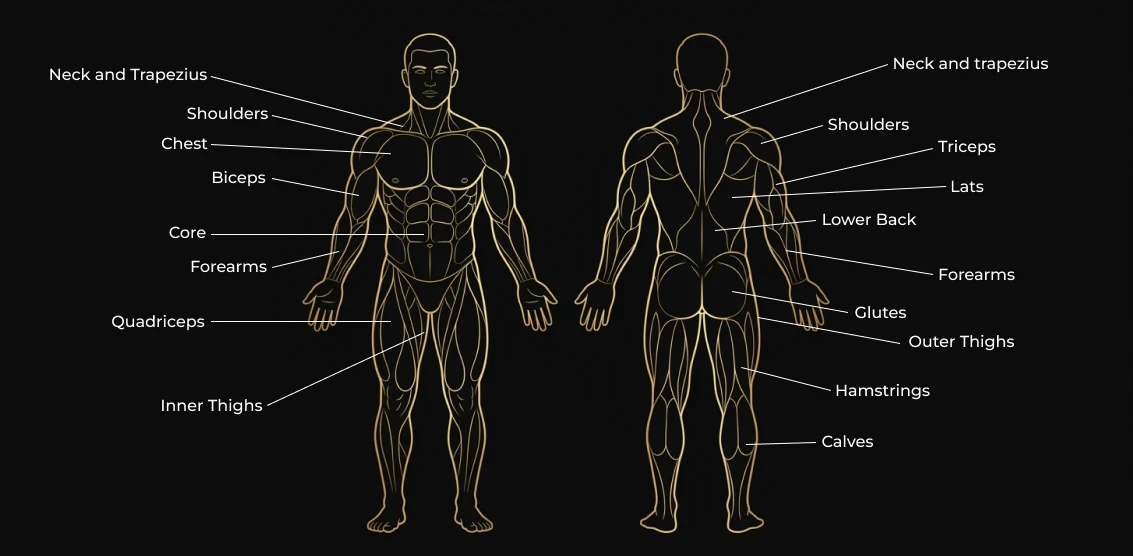
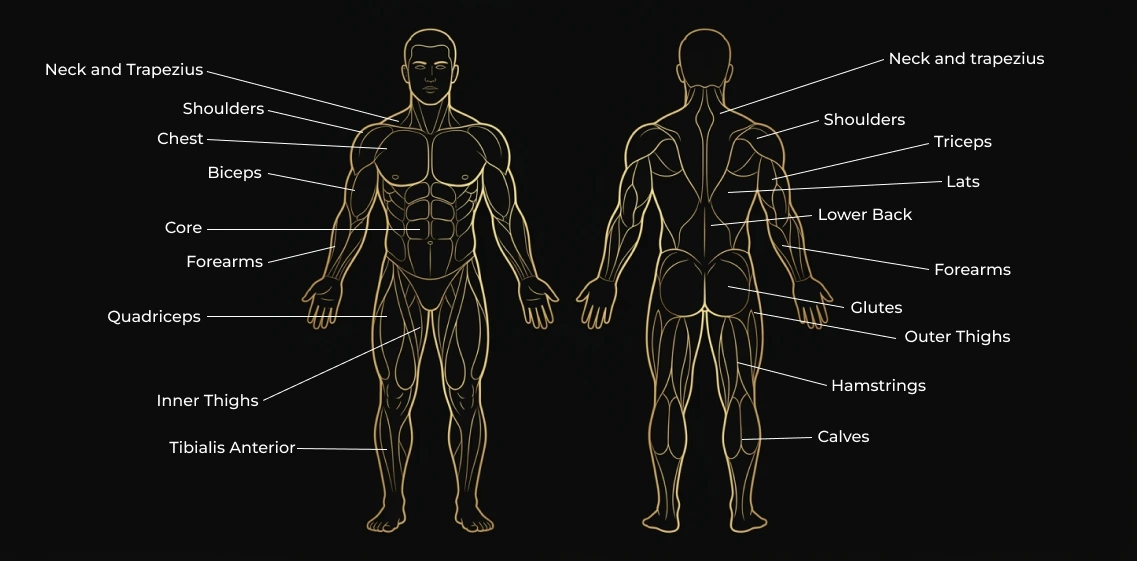
Anatomy map: new labelled art with a Tibialis Anterior label (male)
Hani re-exported the art; the male front figure now carries a Tibialis
Anterior label, wired to the new tibialis hub. Zone rects and figure
boxes are now GENERATED by scripts/anatomy-zones.mjs (white-text
detection, dash-aware; gutter = empty column run nearest image centre,
since the figures' arms interleave and the widest run splits an arm off
its figure). PNG originals live in art/, the site ships q92 webp.
Female art is unchanged and still has no tibialis label.

diff --git a/src/data/anatomyRegions.js b/src/data/anatomyRegions.js
@@ -10,9 +10,10 @@
 // Coordinates are normalized (0..1) WITHIN that view's box, so they stay aligned
 // at any render size.
 //
-// The rects below were generated by detecting the white label text in the art
-// (near-white mask -> connected components -> group glyphs into lines), padded,
-// then de-overlapped. Regenerate the same way if the art changes; `?anatomy-debug`
+// The rects below are GENERATED — run `node scripts/anatomy-zones.mjs
+// public/images/anatomy-male.webp male` (and female) after any art change and
+// paste the output here. The script declares the expected label list per view
+// and refuses to emit if the art's labels don't match it. `?anatomy-debug`
 // on /exercises logs click coordinates in the image's pixel space for nudging.
 import { ENGINE_MUSCLE_TO_SLUG, SUBCATEGORIES } from './muscleInfo'
 
@@ -22,17 +23,17 @@ import { ENGINE_MUSCLE_TO_SLUG, SUBCATEGORIES } from './muscleInfo'
 export const ANATOMY_SOURCES = {
   male: {
     src: 'images/anatomy-male.webp',
-    w: 1133,
-    h: 556,
-    front: { x: 38, y: 21, w: 531, h: 523 },
-    back: { x: 562, y: 21, w: 497, h: 523 },
+    w: 1137,
+    h: 561,
+    front: { x: 38, y: 20, w: 530, h: 521 },
+    back: { x: 568, y: 20, w: 484, h: 521 },
   },
   female: {
     src: 'images/anatomy-female.webp',
     w: 1317,
     h: 658,
-    front: { x: 82, y: 23, w: 577, h: 609 },
-    back: { x: 660, y: 23, w: 522, h: 609 },
+    front: { x: 86, y: 27, w: 570, h: 602 },
+    back: { x: 664, y: 27, w: 515, h: 601 },
   },
 }
 
@@ -64,50 +65,51 @@ export function writeAnatomySex(id) {
 export const ANATOMY_ZONES = {
   female: {
     front: [
-      { slug: 'traps', label: 'Neck and Trapezius', rect: [0.0069, 0.0772, 0.3414, 0.0558] },
-      { slug: 'shoulders', label: 'Shoulders', rect: [0.1854, 0.1856, 0.1872, 0.0493] },
-      { slug: 'chest', label: 'Chest', rect: [0.2756, 0.2693, 0.1161, 0.0509] },
-      { slug: 'biceps', label: 'Biceps', rect: [0.2374, 0.3662, 0.13, 0.0542] },
-      { slug: 'forearms', label: 'Forearms', rect: [0.0607, 0.4762, 0.1768, 0.0476] },
-      { slug: 'core', label: 'Core', rect: [0.2548, 0.5517, 0.0971, 0.0493] },
-      { slug: 'adductors', label: 'Inner Thighs', rect: [0.0347, 0.6897, 0.227, 0.0558] },
-      { slug: 'quads', label: 'Quadriceps', rect: [0.1369, 0.8112, 0.2097, 0.0558] },
+      { slug: 'traps', label: 'Neck and Trapezius', rect: [0.0018, 0.0781, 0.3439, 0.0449] },
+      { slug: 'shoulders', label: 'Shoulders', rect: [0.1825, 0.1877, 0.1877, 0.0382] },
+      { slug: 'chest', label: 'Chest', rect: [0.2737, 0.2724, 0.1158, 0.0399] },
+      { slug: 'biceps', label: 'Biceps', rect: [0.2351, 0.3704, 0.1298, 0.0432] },
+      { slug: 'forearms', label: 'Forearms', rect: [0.0561, 0.4817, 0.1772, 0.0365] },
+      { slug: 'core', label: 'Core', rect: [0.2526, 0.5581, 0.0965, 0.0382] },
+      { slug: 'adductors', label: 'Inner Thighs', rect: [0.0404, 0.6977, 0.2175, 0.0449] },
+      { slug: 'quads', label: 'Quadriceps', rect: [0.1316, 0.8206, 0.214, 0.0449] },
     ],
     back: [
-      { slug: 'traps', label: 'Neck and Trapezius', rect: [0.6015, 0.0296, 0.3716, 0.0558] },
-      { slug: 'shoulders', label: 'Shoulders', rect: [0.7241, 0.1346, 0.2069, 0.0509] },
-      { slug: 'triceps', label: 'Triceps', rect: [0.7567, 0.2496, 0.1322, 0.0493] },
-      { slug: 'lats', label: 'Lats', rect: [0.7567, 0.33, 0.0977, 0.0493] },
-      { slug: 'spinal-erectors', label: 'Lower Back', rect: [0.6782, 0.4187, 0.2337, 0.0493] },
-      { slug: 'forearms', label: 'Forearms', rect: [0.7356, 0.5337, 0.1954, 0.0476] },
-      { slug: 'glutes', label: 'Glutes', rect: [0.7261, 0.6125, 0.1418, 0.0493] },
-      { slug: 'abductors', label: 'Outer Thighs', rect: [0.728, 0.6864, 0.2625, 0.0558] },
-      { slug: 'hamstrings', label: 'Hamstrings', rect: [0.7165, 0.7931, 0.2356, 0.0558] },
-      { slug: 'calves', label: 'Calves', rect: [0.6973, 0.8851, 0.1418, 0.0493] },
+      { slug: 'traps', label: 'Neck and Trapezius', rect: [0.6039, 0.03, 0.3748, 0.0449] },
+      { slug: 'shoulders', label: 'Shoulders', rect: [0.7282, 0.1364, 0.2097, 0.0399] },
+      { slug: 'triceps', label: 'Triceps', rect: [0.7379, 0.2463, 0.1553, 0.0449] },
+      { slug: 'lats', label: 'Lats', rect: [0.7612, 0.3344, 0.0971, 0.0383] },
+      { slug: 'spinal-erectors', label: 'Lower Back', rect: [0.6816, 0.4243, 0.235, 0.0399] },
+      { slug: 'forearms', label: 'Forearms', rect: [0.7398, 0.5408, 0.1961, 0.0366] },
+      { slug: 'glutes', label: 'Glutes', rect: [0.7301, 0.6206, 0.1417, 0.0383] },
+      { slug: 'abductors', label: 'Outer Thighs', rect: [0.732, 0.6955, 0.2641, 0.0466] },
+      { slug: 'hamstrings', label: 'Hamstrings', rect: [0.7204, 0.8037, 0.2369, 0.0449] },
+      { slug: 'calves', label: 'Calves', rect: [0.701, 0.8968, 0.1417, 0.0383] },
     ],
   },
   male: {
     front: [
-      { slug: 'traps', label: 'Neck and Trapezius', rect: [0.0094, 0.0727, 0.3032, 0.0612] },
-      { slug: 'shoulders', label: 'Shoulders', rect: [0.2674, 0.1472, 0.162, 0.0554] },
-      { slug: 'chest', label: 'Chest', rect: [0.2185, 0.2046, 0.113, 0.0554] },
-      { slug: 'biceps', label: 'Biceps', rect: [0.3145, 0.2715, 0.1111, 0.0535] },
-      { slug: 'core', label: 'Core', rect: [0.2335, 0.3767, 0.0942, 0.0535] },
-      { slug: 'forearms', label: 'Forearms', rect: [0.275, 0.4417, 0.1507, 0.0535] },
-      { slug: 'quads', label: 'Quadriceps', rect: [0.1243, 0.5449, 0.1864, 0.0593] },
-      { slug: 'adductors', label: 'Inner Thighs', rect: [0.2279, 0.7055, 0.1902, 0.0612] },
+      { slug: 'traps', label: 'Neck and Trapezius', rect: [0.0038, 0.0729, 0.3038, 0.048] },
+      { slug: 'shoulders', label: 'Shoulders', rect: [0.2623, 0.1478, 0.1774, 0.0422] },
+      { slug: 'chest', label: 'Chest', rect: [0.2132, 0.2054, 0.1113, 0.0422] },
+      { slug: 'biceps', label: 'Biceps', rect: [0.3094, 0.2726, 0.1245, 0.0461] },
+      { slug: 'core', label: 'Core', rect: [0.2491, 0.3839, 0.0717, 0.0345] },
+      { slug: 'forearms', label: 'Forearms', rect: [0.2698, 0.4434, 0.1491, 0.0403] },
+      { slug: 'quads', label: 'Quadriceps', rect: [0.1189, 0.547, 0.1849, 0.048] },
+      { slug: 'adductors', label: 'Inner Thighs', rect: [0.2226, 0.7083, 0.2057, 0.0441] },
+      { slug: 'tibialis', label: 'Tibialis Anterior', rect: [0.2358, 0.8004, 0.2491, 0.0403] },
     ],
     back: [
-      { slug: 'traps', label: 'Neck and Trapezius', rect: [0.6539, 0.0516, 0.3199, 0.0612] },
-      { slug: 'shoulders', label: 'Shoulders', rect: [0.5211, 0.1683, 0.173, 0.0554] },
-      { slug: 'triceps', label: 'Triceps', rect: [0.7404, 0.2122, 0.1288, 0.0593] },
-      { slug: 'lats', label: 'Lats', rect: [0.7686, 0.2887, 0.0765, 0.0535] },
-      { slug: 'spinal-erectors', label: 'Lower Back', rect: [0.5111, 0.3499, 0.2153, 0.0554] },
-      { slug: 'forearms', label: 'Forearms', rect: [0.7445, 0.457, 0.161, 0.0535] },
-      { slug: 'glutes', label: 'Glutes', rect: [0.5755, 0.5277, 0.1127, 0.0554] },
-      { slug: 'abductors', label: 'Outer Thighs', rect: [0.6841, 0.5832, 0.2213, 0.0612] },
-      { slug: 'hamstrings', label: 'Hamstrings', rect: [0.5372, 0.6788, 0.1972, 0.0593] },
-      { slug: 'calves', label: 'Calves', rect: [0.5091, 0.7744, 0.1127, 0.0554] },
+      { slug: 'traps', label: 'Neck and Trapezius', rect: [0.6508, 0.0518, 0.3471, 0.0422] },
+      { slug: 'shoulders', label: 'Shoulders', rect: [0.5165, 0.1689, 0.1942, 0.0422] },
+      { slug: 'triceps', label: 'Triceps', rect: [0.7417, 0.2131, 0.1302, 0.0461] },
+      { slug: 'lats', label: 'Lats', rect: [0.7707, 0.2898, 0.0764, 0.0403] },
+      { slug: 'spinal-erectors', label: 'Lower Back', rect: [0.5062, 0.3512, 0.2169, 0.0422] },
+      { slug: 'forearms', label: 'Forearms', rect: [0.7459, 0.4587, 0.1632, 0.0403] },
+      { slug: 'glutes', label: 'Glutes', rect: [0.5723, 0.5317, 0.1322, 0.0403] },
+      { slug: 'abductors', label: 'Outer Thighs', rect: [0.6818, 0.5854, 0.2459, 0.0461] },
+      { slug: 'hamstrings', label: 'Hamstrings', rect: [0.5331, 0.6814, 0.2004, 0.0461] },
+      { slug: 'calves', label: 'Calves', rect: [0.5041, 0.7793, 0.1322, 0.0403] },
     ],
   },
 }